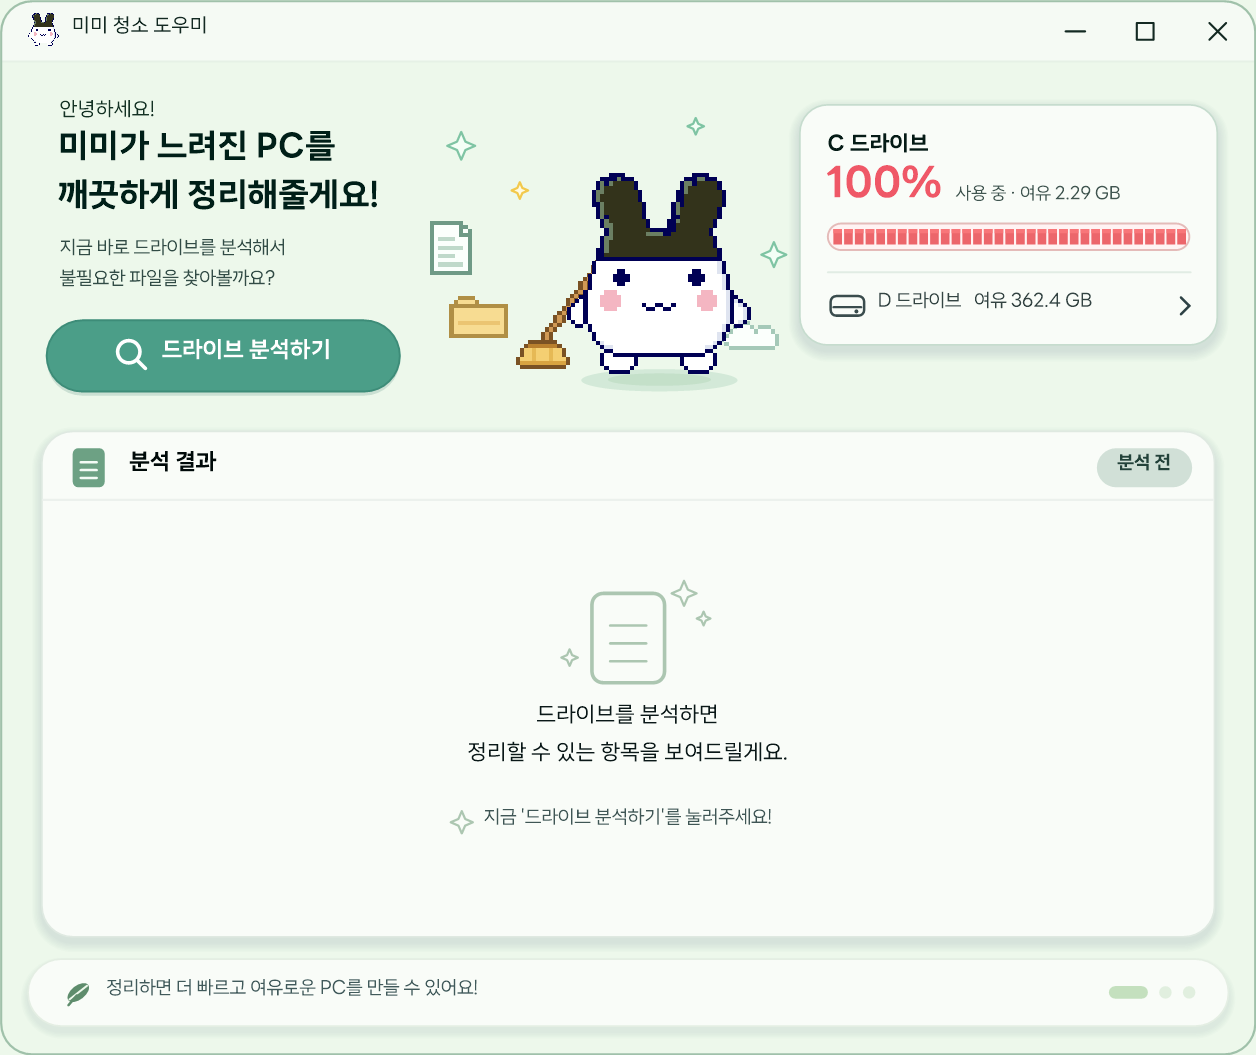
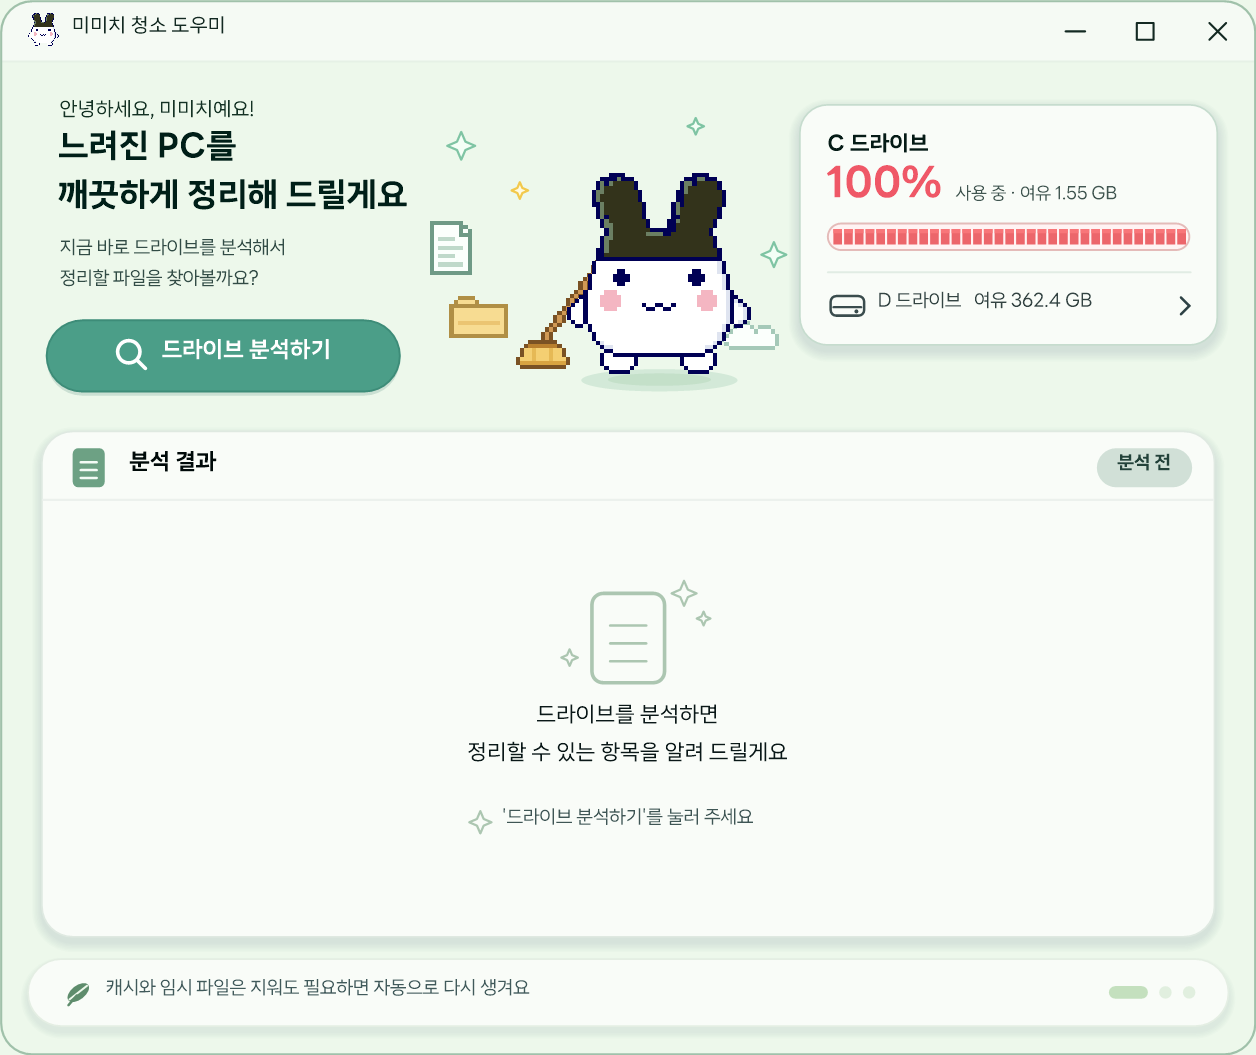
Rename character to Mimichi, soften mascot voice, restore character section
- UI: character is called Mimichi (window title, greeting, shortcut name)
- Mascot-facing text (greeting, progress, done, tips, dialogs) uses a light, friendly tone;
  list descriptions and error details stay plain
- README: add character section with the animation
- Refresh screenshots

diff --git a/README.md b/README.md
@@ -18,6 +18,20 @@ Windows 디스크 정리 도구. 시스템 드라이브 분석 후 항목 분류
 |:---:|:---:|:---:|
 | <img src="docs/01-start.png" width="260"> | <img src="docs/02-analyzing.png" width="260"> | <img src="docs/04-done.png" width="260"> |
 
+## 캐릭터
+
+미미치(みみっち)를 도트로 다시 그린 안내 캐릭터. 화면 상태에 따라 동작 변경.
+
+<p align="center"><img src="docs/animation.png" alt="청소 애니메이션" width="640"></p>
+
+| 상태 | 동작 |
+|---|---|
+| 대기 | 가볍게 들썩임, 간헐적 눈 깜빡임 |
+| 분석·정리 중 | 웃는 눈으로 빗자루를 좌우로 쓸며 매번 점프. 솔 끝에서 먼지가 밀려나고, 쓸고 지난 자리에 반짝임 |
+| 정리 완료 | 높이 점프, 주변에 반짝임 |
+
+빗자루는 캐릭터와 같은 3px 도트 단위로 구성(외곽선 있는 막대, 줄무늬 솔).
+
 ## 요구 사항
 
 - Windows 10 / 11
